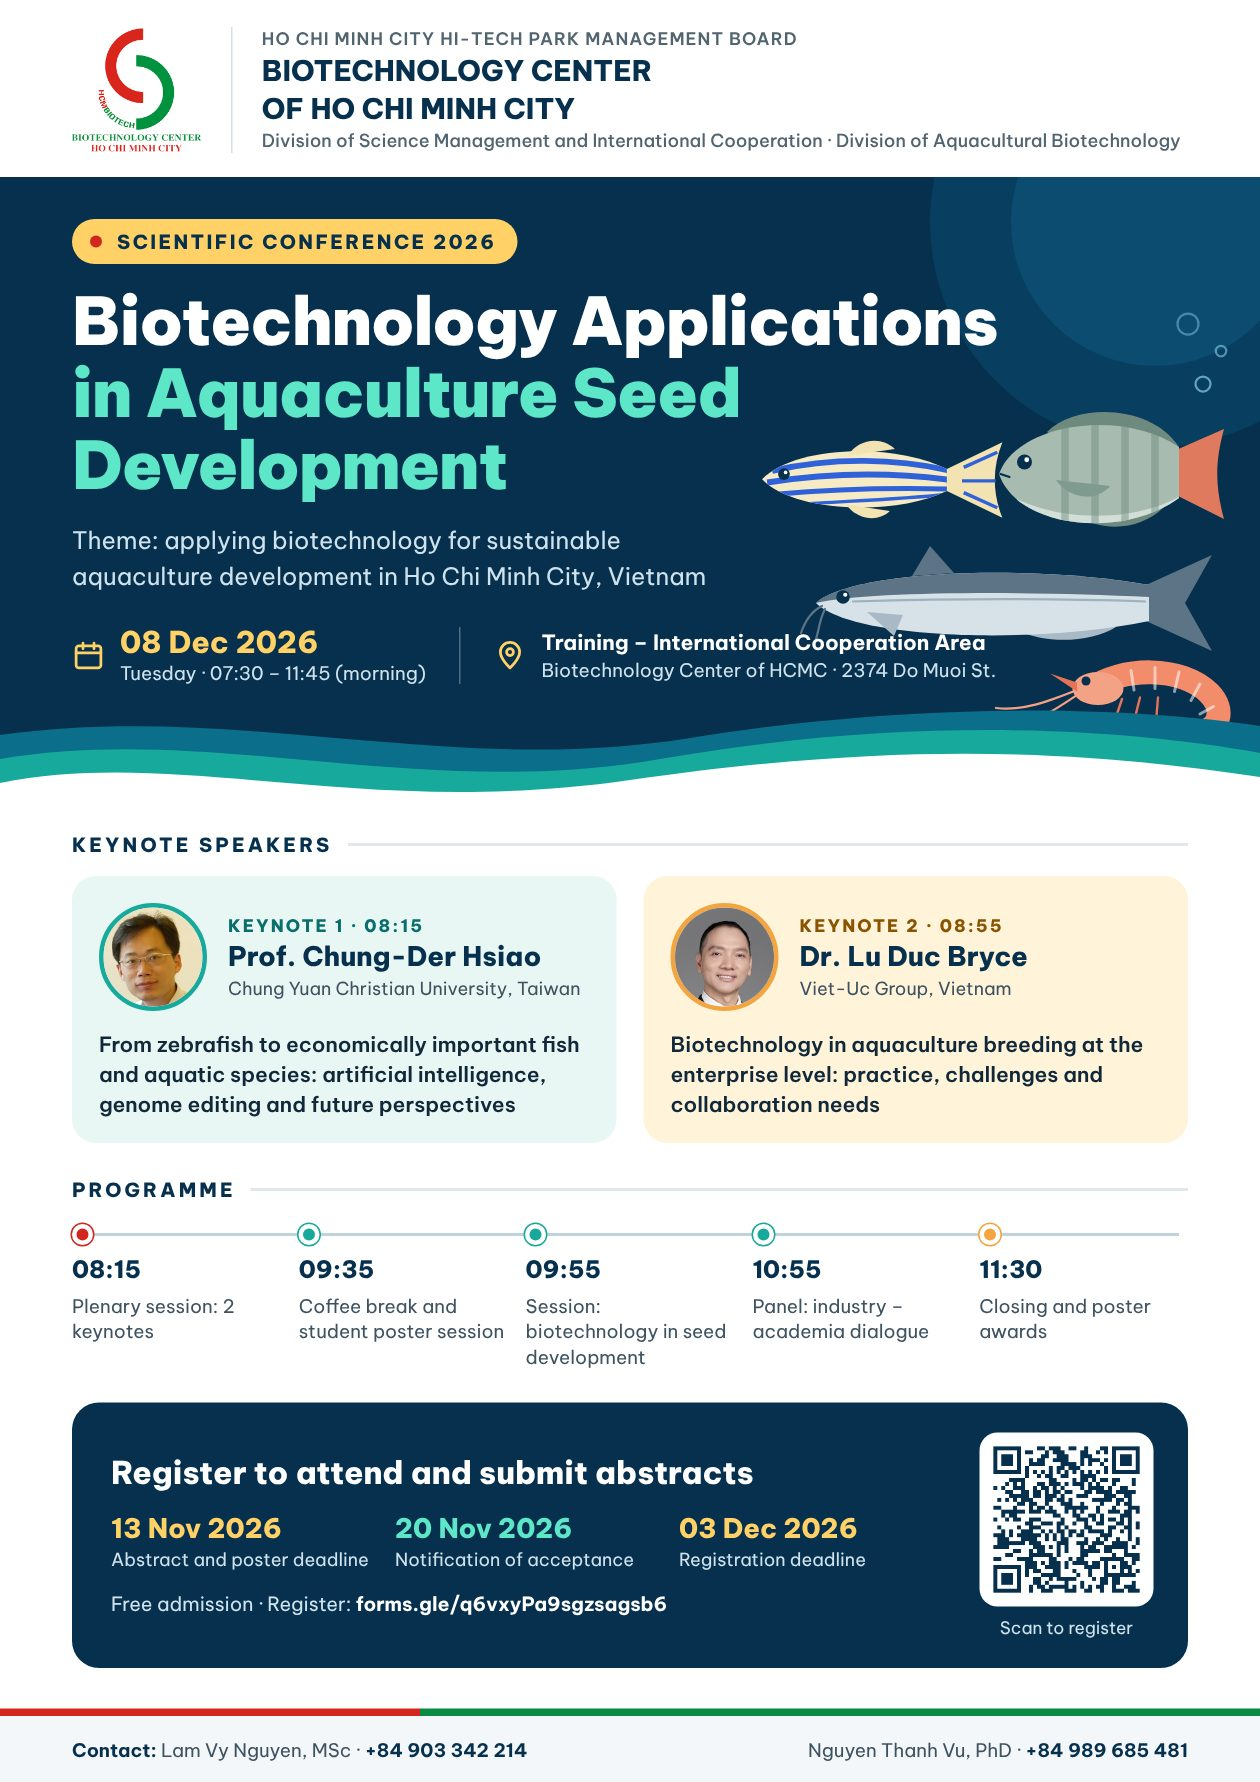
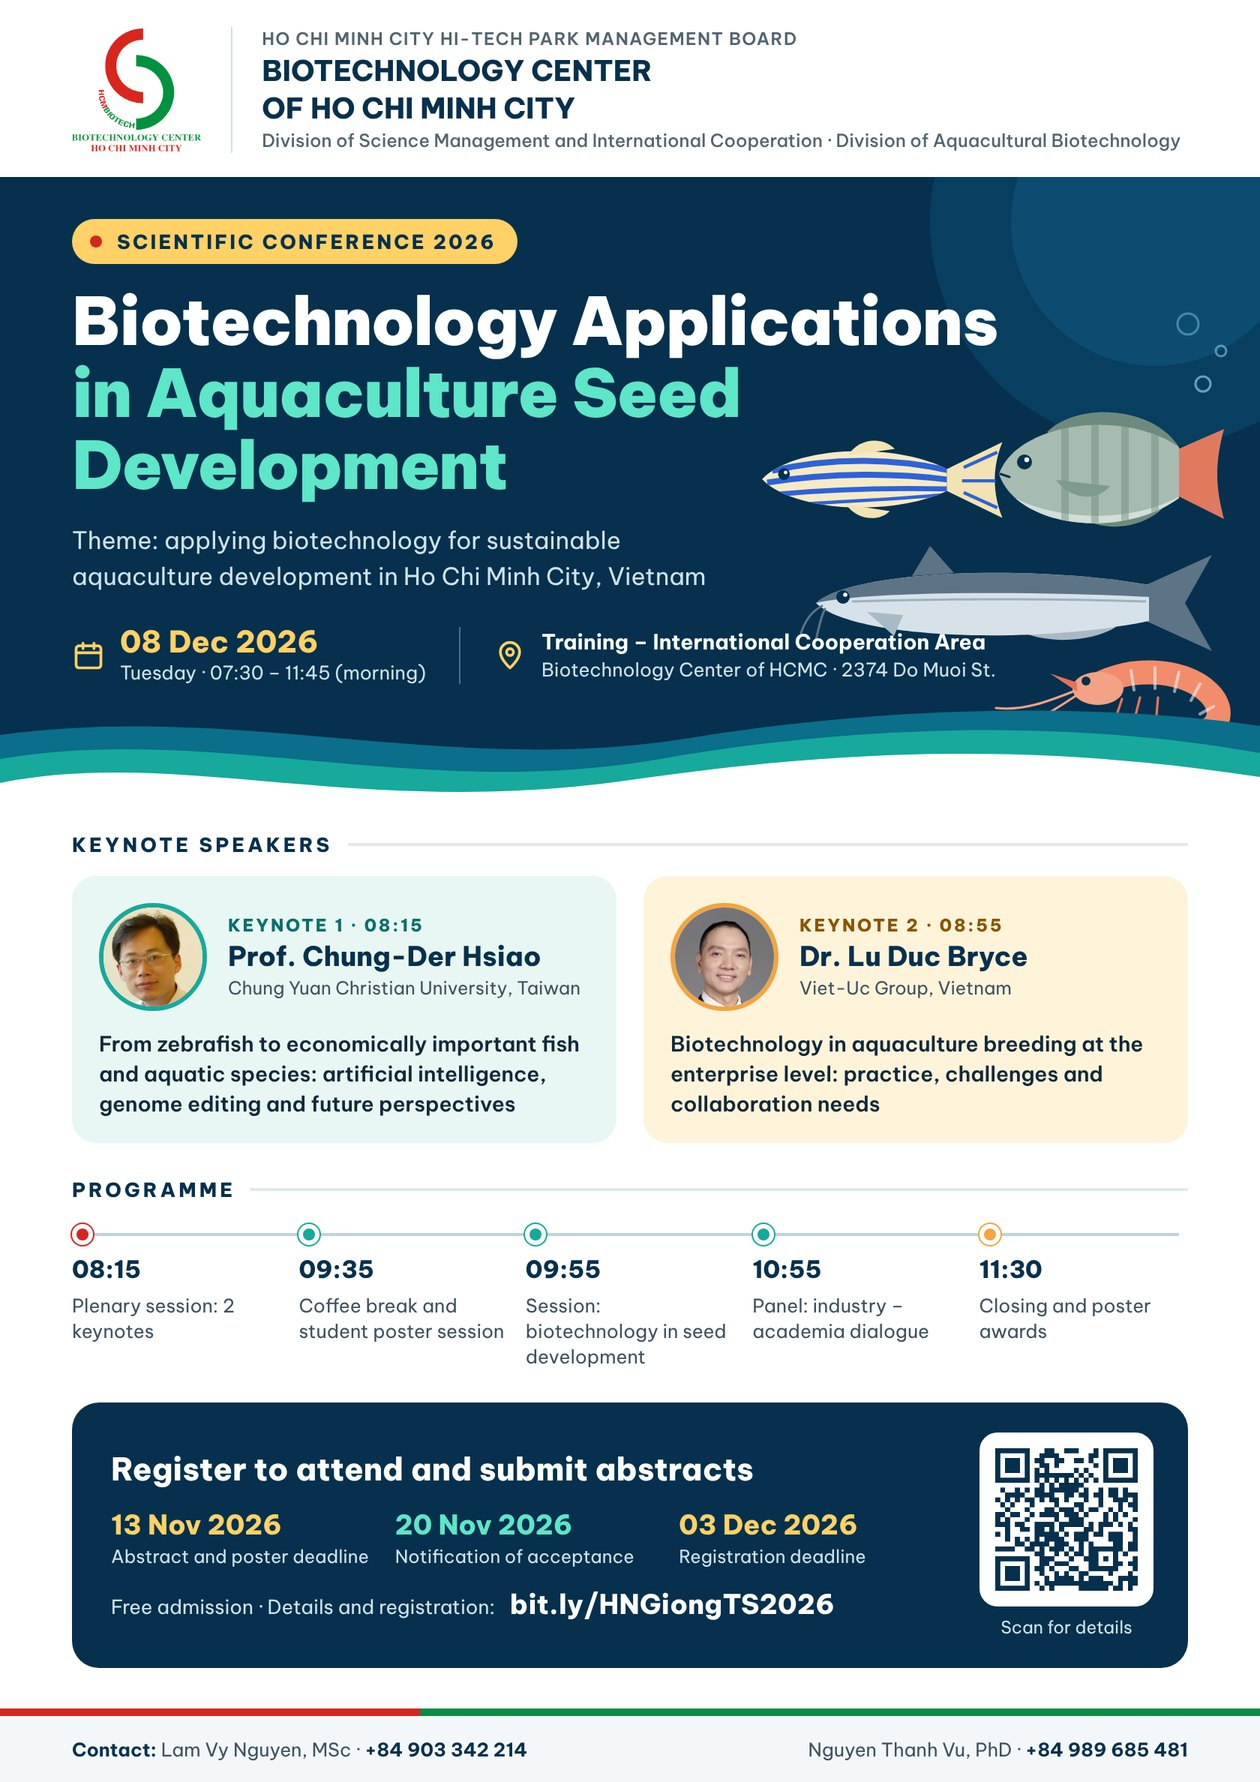
Cập nhật poster (QR bit.ly/HNGiongTS2026) và đường dẫn chia sẻ
Claude-Session: https://claude.ai/code/session_01Ew4uhEewMJAt8VBi4ksjXr

diff --git a/hn2026/index.html b/hn2026/index.html
@@ -424,7 +424,7 @@ section[id]{scroll-margin-top:60px}
   <div class="head">
     <p class="eyebrow" data-en="Announcement poster">Poster thông báo</p>
     <h2 data-en="Poster for circulation">Poster phát hành</h2>
-    <p class="lede" data-en="Vietnamese and English versions of the announcement poster, with a QR code linking to the registration form.">Bản tiếng Việt và bản tiếng Anh của poster thông báo Hội nghị, có mã QR dẫn tới phiếu đăng ký.</p>
+    <p class="lede" data-en="Vietnamese and English versions of the announcement poster, with a QR code linking to bit.ly/HNGiongTS2026.">Bản tiếng Việt và bản tiếng Anh của poster thông báo Hội nghị, có mã QR dẫn tới trang bit.ly/HNGiongTS2026.</p>
   </div>
   <figure><img src="img/poster-vi.jpg" alt="Poster Hội nghị bản tiếng Việt"><figcaption data-en="Vietnamese">Bản tiếng Việt</figcaption></figure>
   <figure><img src="img/poster-en.jpg" alt="Conference poster, English version"><figcaption data-en="English">Bản tiếng Anh</figcaption></figure>
@@ -445,7 +445,7 @@ section[id]{scroll-margin-top:60px}
 
 <footer><div class="wrap">
   <div class="foot-id"><img class="foot-logo" src="img/logo-mark.png" alt=""><span><span data-en="Ho Chi Minh City Hi-Tech Park Management Board">Ban Quản lý Khu Công nghệ cao Thành phố Hồ Chí Minh</span><strong data-en="Biotechnology Center of Ho Chi Minh City">Trung tâm Công nghệ sinh học Thành phố Hồ Chí Minh</strong></span></div>
-  <div><strong data-en="Conference, 8 December 2026">Hội nghị ngày 08 tháng 12 năm 2026</strong><span data-en="Organised under the Center's conference plan">Theo Kế hoạch tổ chức Hội nghị khoa học của Trung tâm</span></div>
+  <div><strong data-en="Conference, 8 December 2026">Hội nghị ngày 08 tháng 12 năm 2026</strong><span data-en="Share this page: bit.ly/HNGiongTS2026">Chia sẻ trang: bit.ly/HNGiongTS2026</span></div>
 </div></footer>
 
 <script>
